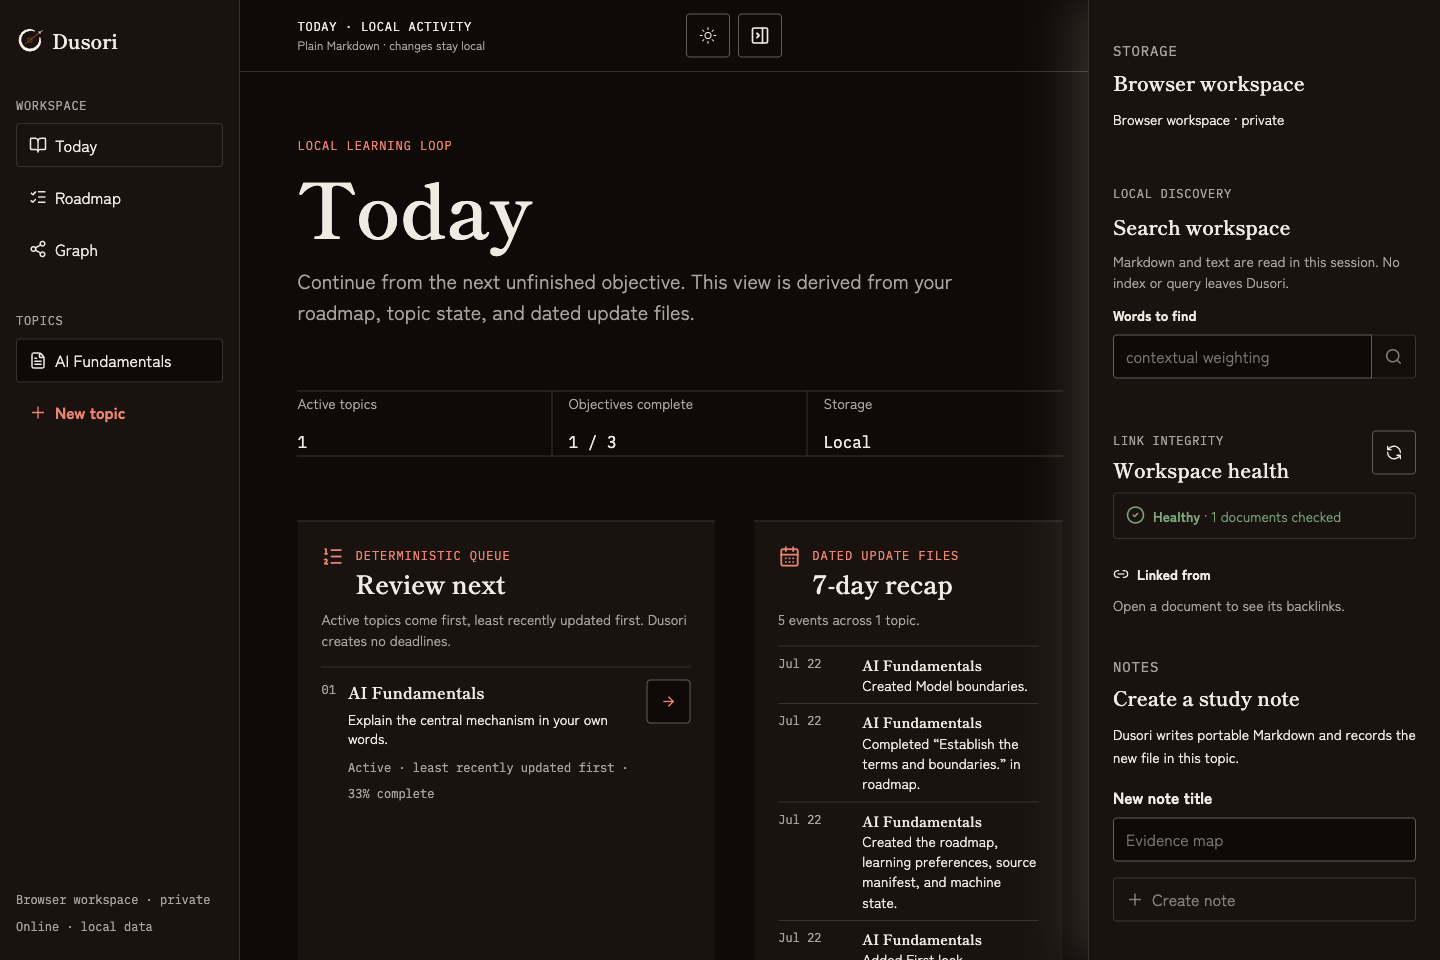
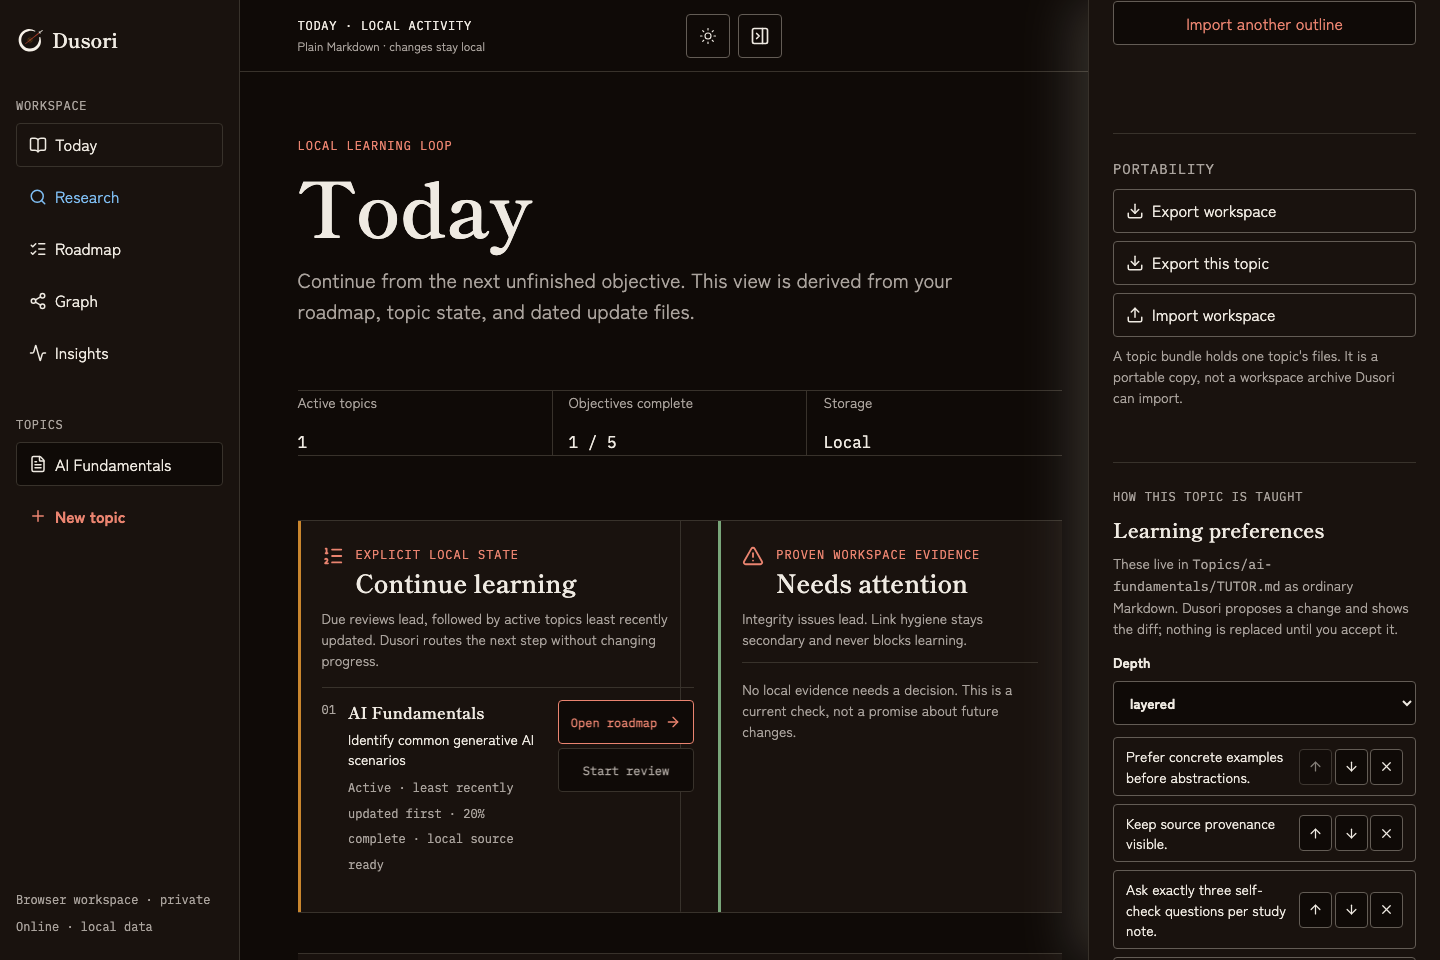
chore: prepare v0.8.0 release

diff --git a/packages/companion/src/version.ts b/packages/companion/src/version.ts
@@ -1,1 +1,1 @@
-export const companionVersion = '0.7.1';
+export const companionVersion = '0.8.0';

diff --git a/docs/product/spec.md b/docs/product/spec.md
@@ -1,6 +1,6 @@
 # Dusori product specification
 
-**Status:** v0.7.1 release · **Date:** 2026-07-29
+**Status:** v0.8.0 release · **Date:** 2026-07-30
 
 ## Product contract
 
@@ -44,6 +44,7 @@ The first milestone must prove:
 30. One health repair that only creates a file an existing wikilink already names.
 31. Local PDF text extraction into the existing source path, with no OCR and no upload.
 32. Structured, conflict-safe editing of a topic's learning preferences, with optional AI proposals.
+33. Evidence-driven Today continuation and attention lanes, backed by a durable topic-local proposal lifecycle.
 
 The shipped source library accepts pasted text, local `.md`/`.markdown`/`.txt`/`.pdf` files up to 2 MiB, and `http://` or `https://` URL references. URL capture stores the reference without fetching remote content. A PDF is read on the device with a lazily loaded browser library, never uploaded; a PDF with no text layer reports that cause rather than storing an empty source, because Dusori ships no OCR. Every new source is hashed, recorded in the topic manifest, and appended to the dated update log.
 
@@ -53,17 +54,17 @@ Learning preferences in a topic's `TUTOR.md` are edited structurally: a depth an
 
 The shipped curriculum importer accepts pasted Microsoft Learn study-guide Markdown with the English `Skills measured` hierarchy and general structured Markdown syllabi. It extracts at most 200 objectives locally, previews them before writing, preserves the original outline as a topic source, and updates `roadmap.md` through the same conflict-safe acceptance protocol. The optional official URL is provenance metadata only and is never fetched.
 
-The shipped learning loop parses ordinary Markdown task syntax from `roadmap.md`. Users can complete or reopen an objective, set a topic to active, paused, or complete, and review a deterministic **Today** summary of progress and next steps. **Review next** orders due spaced reviews first, then unscheduled active topics before paused topics using oldest `state.json.updatedAt` first. The seven-day recap reads bounded recent entries from dated update files. Roadmap writes use the existing hash guard; an external edit produces a sibling proposal and requires explicit review. An explicit review action ("Got it" or "Needs work") stores a fixed-ladder interval (1, 3, 7, 14, 30, then 60 days) in the topic's machine-owned `review.json` and sets the next due date; a scheduled topic rests out of the queue until due, a topic never marked reviewed keeps the deterministic order, and no calendar, notification, or closed-app schedule is ever generated.
+The shipped learning loop parses ordinary Markdown task syntax from `roadmap.md`. Users can complete or reopen an objective, set a topic to active, paused, or complete, and review a deterministic **Today** summary of progress and next steps. **Continue learning** excludes complete topics, orders due spaced reviews first, then active topics before paused topics using oldest `state.json.updatedAt` first with stable title and slug tie-breakers. Its action is derived from current evidence: a due source-ready topic starts review, an unfinished objective without approved readable text opens Research, another source-ready objective opens its roadmap and may offer an optional first review, and a paused topic opens without silently resuming it. **Needs attention** contains only current workspace evidence, with pending proposals and invalid or missing source records ahead of unresolved-link hygiene, and routes each item to its owning workflow. Opening either lane changes no progress. The seven-day recap reads bounded recent entries from dated update files. An explicit review action ("Got it" or "Needs work") stores a fixed-ladder interval (1, 3, 7, 14, 30, then 60 days) in the topic's machine-owned `review.json` and sets the next due date; a scheduled topic rests until due, a topic never marked reviewed remains unscheduled, and no calendar, notification, or closed-app schedule is ever generated.
 
 A queue item can also start a source-grounded review session. Dusori builds three to five active-recall prompts from transparent templates over the current roadmap objective, the headings of that topic's approved sources, and bounded excerpts of their local text. Only sources whose text exists on the device are eligible; a URL kept as a reference is reported with the manual routes to readable content and is never fetched automatically. Every prompt names its source title, section, and workspace path, and its excerpt stays hidden until the learner asks to see it. Each prompt has an answer box. A session is otherwise ephemeral: starting, navigating, revealing, and abandoning write nothing, and only the final explicit "Got it" or "Needs work" reaches the existing review schedule. Typed answers stay in the session unless the learner saves them, which creates one ordinary Markdown note under `Topics/<slug>/Notes/` through the existing note path, reproducing the answers verbatim and quoting each prompt with its generator and source path. Leaving a session with unsaved answers asks once before discarding them. No score, streak, or mastery claim is produced or stored. With the companion running, a configured AI provider, and a separate consent covering source excerpts, a model may reword the prompts only; prompt count, order, evidence, and the review actions are fixed, generated wording is labeled with its model, and any failure keeps the deterministic prompts.
 
-The shipped note editor creates Markdown under `Topics/<slug>/Notes/`, records it in `state.json`, and opens it directly for editing. Existing note saves use the same tracked-hash protocol as roadmap writes. An external edit remains active; Dusori stores the user's draft as a sibling proposal and requires an explicit acceptance step.
+The shipped note editor creates Markdown under `Topics/<slug>/Notes/`, records it in `state.json`, and opens it directly for editing. Existing note saves use the same tracked-hash protocol as roadmap writes. An external edit remains active; Dusori stores the user's draft as a sibling proposal and requires an explicit acceptance step. Pending state is recorded in the topic's schema-versioned, hash-guarded `proposals.json` ledger, so the exact diff survives reload, import, and export. Accepting the proposal or keeping the current document records an `accepted` or `kept` resolution while preserving both Markdown versions. Historical `.proposed-*` files without a ledger entry remain readable history and are never inferred to be pending.
 
 The shipped ZIP export can also write a single topic as a portable bundle. That bundle is a copy to read or keep elsewhere, not a workspace archive: importing a topic into an existing workspace would need merge rules that do not exist, so both the action and a note inside the archive say so.
 
 Workspace health may create one kind of file: the document an unresolved wikilink already names, at the exact name the link uses. This stays inside the storage rules because new files may be created automatically, while existing Markdown may not be changed without explicit acceptance. Every such creation is recorded in `state.json` and appended to the dated update log.
 
-The shipped workspace search scans `.md` and `.txt` files in the current session. Matching is case- and accent-insensitive and requires every query term. Results are bounded, source titles are read from valid manifests when available, and no index, query log, database, or network request is created. Backlinks reverse resolved wikilink edges. Workspace health combines unresolved wikilinks with source-manifest/file consistency checks and never repairs or quarantines an invalid manifest implicitly.
+The shipped workspace search scans `.md` and `.txt` files in the current session. Matching is case- and accent-insensitive and requires every query term. Results are bounded, source titles are read from valid manifests when available, and no index, query log, database, or network request is created. Backlinks reverse resolved wikilink edges. Workspace health combines unresolved wikilinks with source-manifest/file consistency and proposal-ledger validation; it never repairs or quarantines invalid machine state implicitly.
 
 The shipped ZIP import path normalizes and validates the entire archive before replacement confirmation, including required workspace/topic schemas, file count, and compressed/expanded size limits. The destination is untouched when preflight fails. If a storage write fails during replacement, Dusori restores the previous snapshot before surfacing the error.
 
@@ -106,7 +107,8 @@ Source text is untrusted data—not executable instructions. Remote egress must 
 - JSON is machine-owned, schema-versioned, and validated.
 - New files may be created automatically.
 - Existing Markdown requires explicit acceptance before a matching version is changed.
-- A stale version produces a sibling proposal and append-only update entry.
+- A stale version produces a sibling proposal, a pending lifecycle entry, and an append-only update entry.
+- Accepting a proposal or keeping the current document resolves the lifecycle entry without deleting either Markdown version.
 - Migrations create recoverable backups.
 - Every operation remains inside the selected Dusori root.
 

diff --git a/README.md b/README.md
@@ -117,7 +117,8 @@ Dusori turns ordinary files into a private learning loop. Start in browser stora
 
 |     | You do this                        | Dusori gives you                                                                                           |
 | --- | ---------------------------------- | ---------------------------------------------------------------------------------------------------------- |
-| 🗺  | Check roadmap objectives           | A deterministic next-review order, progress, topic state, and seven-day recap                              |
+| 🧭  | Open Today                         | Evidence-backed continuation and attention lanes across the workspace, without changing progress           |
+| 🗺  | Check roadmap objectives           | Portable Markdown progress, explicit topic state, and a seven-day file-derived recap                       |
 | 🔁  | Mark a topic reviewed              | An optional spaced schedule — 1, 3, 7, 14, 30, then 60 days — that rests the topic until it is due         |
 | 🧠  | Start a review                     | Active-recall prompts from that topic's own sources, an answer box, and your answers saved as a note       |
 | ✍  | Create or edit Markdown notes      | Portable notes with explicit proposals when another editor changed the same file first                     |
@@ -137,7 +138,7 @@ General web search is optional companion configuration: Brave and Tavily accept 
 <p align="center">
   <img src="apps/site/public/app-workspace.png" alt="Dusori workspace showing the local learning loop" width="820">
   <br>
-  <sub><em>Today, Roadmap, local notes, source provenance, and review state stay together without becoming a hosted account.</em></sub>
+  <sub><em>Today routes the next evidence-backed learning action and proven attention items without becoming a hosted account.</em></sub>
 </p>
 
 ## Obsidian, Without Surrendering the Vault
@@ -192,6 +193,7 @@ Firefox and Safari use the private browser workspace plus ZIP import/export. Fol
     ├── state.json
     ├── research.json
     ├── review.json
+    ├── proposals.json
     ├── Notes/
     ├── Updates/YYYY/MM/YYYY-MM-DD.md
     ├── Sources/
@@ -200,7 +202,7 @@ Firefox and Safari use the private browser workspace plus ZIP import/export. Fol
     └── Backups/
 ```
 
-Markdown and text are user-owned. JSON is machine-owned, schema-versioned, and validated. If a Markdown file changed outside Dusori, that file stays active and Dusori writes a dated `.proposed-…` version beside it for explicit review.
+Markdown and text are user-owned. JSON is machine-owned, schema-versioned, and validated. If a Markdown file changed outside Dusori, that file stays active and Dusori writes a dated `.proposed-…` version beside it for explicit review. The topic's `proposals.json` ledger keeps that decision visible across reloads; accepting the proposal or keeping the current file resolves the ledger entry while preserving both Markdown versions.
 
 </details>
 
@@ -322,9 +324,9 @@ More help: [Getting started](https://udhawan97.github.io/Dusori/docs/getting-sta
 
 ## Release Notes
 
-The current `v0.7.1` release makes Dusori more dependable on the paths that matter most: reopening the installed app offline, starting a workspace without hunting below the fold, running Research from its first screen, and using the mobile drawer from a keyboard. Hosted OpenAlex and npm discovery now pass the deployed network policy, retry-exhausted workspace conflicts keep their useful explanation, and the version-aligned companion publishes from the verified GitHub release tag.
+The current `v0.8.0` release turns Today into an evidence-driven workspace dashboard. **Continue learning** routes due source-grounded reviews, objectives that need sources, ordinary roadmap continuation, and paused topics without silently changing progress. **Needs attention** surfaces only current integrity and link-health evidence. Pending Markdown proposals now survive reloads through a portable lifecycle ledger, while both the current and proposed files remain intact.
 
-[Read the v0.7.1 notes](https://github.com/udhawan97/Dusori/releases/tag/v0.7.1) · [Review the changelog](CHANGELOG.md)
+[Read the v0.8.0 notes](https://github.com/udhawan97/Dusori/releases/tag/v0.8.0) · [Review the changelog](CHANGELOG.md)
 
 ## Contributing
 

diff --git a/apps/site/src/content/docs/docs/releases/v0-8-0.md b/apps/site/src/content/docs/docs/releases/v0-8-0.md
@@ -1,0 +1,47 @@
+---
+title: v0.8.0 release notes
+description: Evidence-driven Today lanes and a durable proposal lifecycle.
+sidebar:
+  order: 9
+---
+
+Released July 30, 2026. Version 0.8.0 turns Today into a workspace-wide decision surface grounded in the files Dusori can actually inspect. It also makes conflict proposals durable across reload, import, and export without deleting either Markdown version.
+
+[Open Dusori](https://udhawan97.github.io/Dusori/app/) · [View the GitHub release](https://github.com/udhawan97/Dusori/releases/tag/v0.8.0)
+
+## Continue from evidence
+
+**Continue learning** excludes completed topics and keeps deterministic ordering: due spaced reviews first, then active topics before paused topics, with the least recently updated item first.
+
+The action comes from current local evidence:
+
+- A due topic with an approved readable source starts a source-grounded review.
+- An unfinished objective without approved readable text opens Research.
+- Another source-ready objective opens its roadmap and may offer an optional first review.
+- A paused topic opens without silently resuming it.
+
+Opening any item changes no progress. A URL-only reference does not make a topic source-ready, and Dusori makes no claim about source quality or understanding.
+
+## Attend only to what is real
+
+**Needs attention** contains conditions proven by the current workspace. Pending edit proposals and invalid or missing source records take priority; unresolved wikilinks remain secondary hygiene. Each item routes to the existing proposal review or Workspace health flow, where the evidence and any bounded repair remain visible.
+
+There are no invented reminders, dismiss-only cards, mastery claims, or new background schedules.
+
+## Keep proposal decisions across reloads
+
+When a tracked Markdown file changed outside Dusori, the external version remains active and the Dusori change becomes a dated sibling proposal. Version 0.8.0 records that lifecycle in a schema-versioned, hash-guarded `Topics/<slug>/proposals.json` ledger.
+
+The ledger stores the target and proposal paths plus a `pending`, `accepted`, or `kept` resolution. Today can therefore recover the exact pending diff after a reload. Accepting the proposal or keeping the current document resolves the attention item while preserving both Markdown files. Historical `.proposed-*` files that predate the ledger remain readable history and are never guessed to be pending.
+
+The ledger is validated with the rest of the workspace and travels through whole-workspace export and import.
+
+## Install the matching companion
+
+Dusori remains fully useful in the browser without the companion. For loopback-only page capture and optional local research providers, use the version that matches this release:
+
+```bash
+npx @udhawan97/dusori@0.8.0
+```
+
+The companion still requires Node.js 24 LTS, binds only to `127.0.0.1`, and stops when its terminal closes.

diff --git a/apps/site/src/content/docs/docs/roadmap.md b/apps/site/src/content/docs/docs/roadmap.md
@@ -9,7 +9,7 @@ description: Planned work is separated explicitly from what Dusori ships today.
 - Direct folder connection on supported Chromium desktop browsers
 - Canonical Markdown/JSON topic structure
 - Validated ZIP import with rollback-safe browser-workspace replacement, plus ZIP export of the whole workspace or one topic
-- Conflict-safe proposals and dated update logs
+- Conflict-safe proposals, a durable topic-local proposal lifecycle, and dated update logs
 - Local source library for pasted text, Markdown/text files, PDFs read on your device, and unfetched URL references
 - Automatic, consent-gated research across Microsoft Learn, English Wikipedia, Hacker News, GitHub, Stack Exchange, OpenAlex, and the npm registry, with explainable deterministic ranking and preview-first source capture
 - Tags read from your own Markdown — `tags:` frontmatter or an inline `#tag` — with a `tag:` search filter, a graph filter, and a tag count in Insights
@@ -17,7 +17,7 @@ description: Planned work is separated explicitly from what Dusori ships today.
 - In-app creation and conflict-safe editing of portable Markdown notes
 - Local full-text workspace search with no stored index or remote query
 - Backlinks and non-mutating workspace health for wikilinks and source manifests/files
-- Interactive Markdown roadmap progress, explicit topic status, deterministic review order, and a seven-day recap
+- Evidence-driven Today lanes for workspace-wide continuation and proven attention, plus interactive Markdown roadmap progress, explicit topic status, and a seven-day recap
 - Optional spaced review: an explicit "Got it" / "Needs work" action schedules a topic's next due date on the review queue from a fixed interval ladder
 - Source-grounded review sessions: three to five deterministic active-recall prompts built from a topic's objective and its own readable approved sources, each showing its source path and excerpt on demand, with optional consent-gated AI rewording
 - Sanitized Markdown, wikilinks, and a strict Mermaid rendering path

diff --git a/CHANGELOG.md b/CHANGELOG.md
@@ -4,6 +4,8 @@ All notable Dusori changes are documented here. Dusori follows [Semantic Version
 
 ## [Unreleased]
 
+## [0.8.0] - 2026-07-30
+
 ### Added
 
 - **Today** now opens with two workspace-wide, file-derived lanes. **Continue learning** routes due source-grounded reviews, objectives that need research, ordinary roadmap continuation, and paused topics without changing progress. **Needs attention** gives integrity issues priority, keeps unresolved-link hygiene secondary, and routes every item back to its existing owning workflow.
@@ -170,7 +172,8 @@ All notable Dusori changes are documented here. Dusori follows [Semantic Version
 - Remote fetching, PDF extraction, search, Ollama transformations, generated schedules, and unattended work are not implemented.
 - The optional companion is versioned in the repository but is not published to npm in this release.
 
-[Unreleased]: https://github.com/udhawan97/Dusori/compare/v0.7.1...HEAD
+[Unreleased]: https://github.com/udhawan97/Dusori/compare/v0.8.0...HEAD
+[0.8.0]: https://github.com/udhawan97/Dusori/compare/v0.7.1...v0.8.0
 [0.7.1]: https://github.com/udhawan97/Dusori/compare/v0.7.0...v0.7.1
 [0.7.0]: https://github.com/udhawan97/Dusori/compare/v0.6.0...v0.7.0
 [0.6.0]: https://github.com/udhawan97/Dusori/compare/v0.5.0...v0.6.0

diff --git a/apps/site/src/content/docs/docs/workspaces.md b/apps/site/src/content/docs/docs/workspaces.md
@@ -13,6 +13,9 @@ Topics/<topic-slug>/
   roadmap.md
   TUTOR.md
   state.json
+  research.json
+  review.json
+  proposals.json
   Notes/
   Updates/YYYY/MM/YYYY-MM-DD.md
   Sources/
@@ -34,7 +37,7 @@ Dusori writes only inside that approved root. The resulting Markdown and wikilin
 
 Firefox and Safari use the browser workspace plus ZIP import/export. The optional local companion is the later cross-browser path for direct folder access.
 
-Every topic keeps its own source files and manifest, so moving a topic preserves the learning material and its provenance metadata. See [Sources](../sources/) for the capture limits and file contract.
+Every topic keeps its own source files, manifest, research and review state, and proposal lifecycle, so moving a topic preserves the learning material and its provenance metadata. See [Sources](../sources/) for the capture limits and file contract.
 
 The [portable knowledge graph](../knowledge-graph/) reads these same files and does not add a graph database or hidden sync layer.
 
